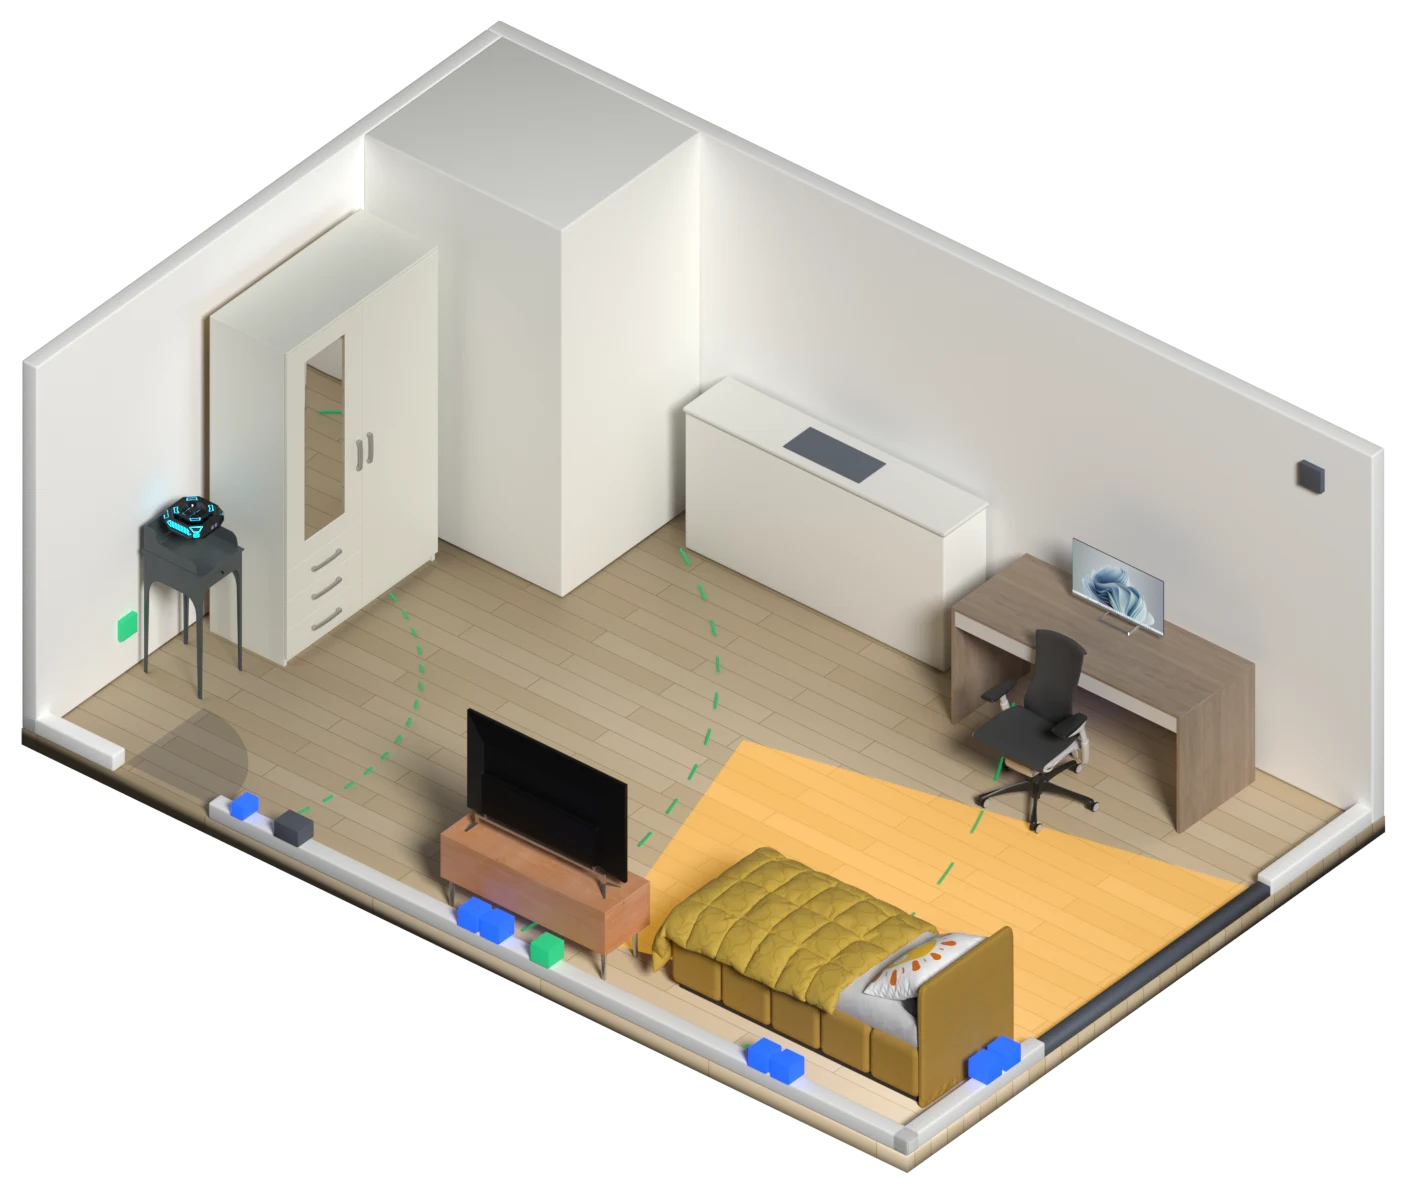
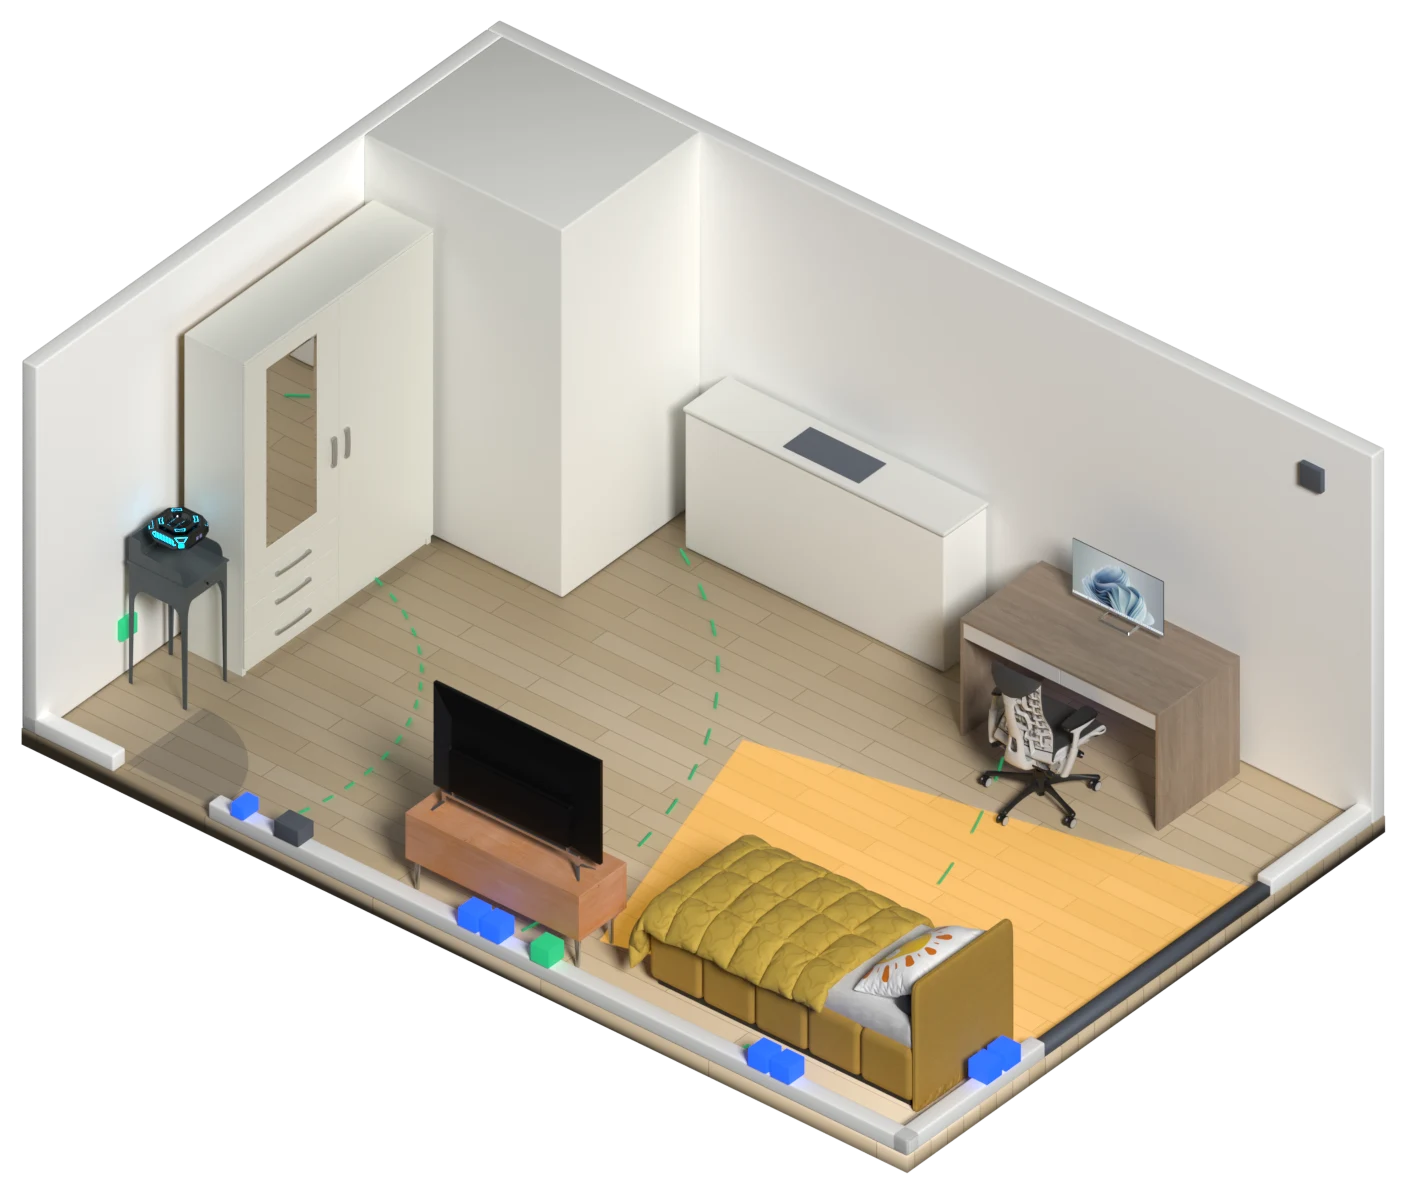
PLUGIN: 가구가 겹치지 않고 옮겨 가는 배치 전환, 유사 서비스 장 추가, 의자 방향 수정

diff --git a/plugin/index.html b/plugin/index.html
@@ -56,6 +56,12 @@ dd{font-size:clamp(15px,1.4vw,19px);font-weight:600;line-height:1.5;letter-spaci
 .card q{display:block;quotes:"“" "”";font-size:clamp(17px,1.75vw,25px);font-weight:700;line-height:1.5;letter-spacing:-.02em;margin-top:16px;text-wrap:pretty}
 .vs+.lead b,.lead.in{color:var(--ink)}
 .lead.in{margin-bottom:clamp(14px,2.6vh,24px)}
+.rows{padding-block:6px}
+.rows>div{display:grid;grid-template-columns:11.5em minmax(0,1fr) auto;gap:20px;align-items:center;padding:clamp(11px,2vh,18px) 0;border-top:1px solid var(--line)}
+.rows>div:first-child{border-top:0}
+.rows b{font-size:clamp(15px,1.3vw,18px);font-weight:700;letter-spacing:-.01em}
+.rows p{margin-top:0}
+.rows+.lead{margin-top:clamp(16px,3vh,28px)}
 /* 표지 */
 #s0{align-items:center;text-align:center;padding-bottom:0;overflow:hidden}
 #s0 .sub{font-size:clamp(17px,1.8vw,25px);font-weight:600;letter-spacing:-.02em;margin-top:14px}
@@ -64,7 +70,7 @@ dd{font-size:clamp(15px,1.4vw,19px);font-weight:600;line-height:1.5;letter-spaci
 #s0 .hero{margin-top:clamp(8px,2vh,20px)}
 #s0 .hero img{height:100%;width:100%;object-fit:contain}
 .r3{position:relative;aspect-ratio:1406/1194;width:min(100%,calc((100vh - 330px) * 1406 / 1194));margin-inline:auto}
-.r3 img{position:absolute;inset:0;width:100%;height:100%}
+.r3 img,.r3 canvas{position:absolute;inset:0;width:100%;height:100%}
 .r3 .L{opacity:0;transition:opacity .7s ease}.r3 .L.show{opacity:1}
 #s9 .bd{align-items:center;text-align:center}
 #s9 h2{font-size:clamp(32px,5.2vw,80px);line-height:1.18;margin-top:20px}
@@ -127,6 +133,7 @@ dd{font-size:clamp(15px,1.4vw,19px);font-weight:600;line-height:1.5;letter-spaci
   dl>div{grid-template-columns:5em minmax(0,1fr);padding:9px 0}
   .plan{width:100%;border-radius:14px}
   .layers li{grid-template-columns:12px 5.2em minmax(0,1fr);gap:9px;padding:9px 0;font-size:14px}.layers span{font-size:13px}
+  .rows>div{grid-template-columns:1fr;gap:6px;justify-items:start;padding:11px 0}
   .tabs{display:flex}.tabs button{flex:1;padding:8px 4px;font-size:12.5px}
   .why{min-height:0}
   #s9 .bd{justify-content:center}
@@ -174,8 +181,22 @@ dd{font-size:clamp(15px,1.4vw,19px);font-weight:600;line-height:1.5;letter-spaci
   </div>
 </section>
 
+<section class="sl" id="s2b">
+  <div><p class="chip">03 · 이미 있는 것</p><h2>방을 읽는 앱은 많다. <b class="k">콘센트로 배치하는</b> 앱은 찾지 못했다</h2></div>
+  <div class="bd">
+    <div class="card rows">
+      <div><b>IKEA Kreativ</b><p>사진 여러 장으로 방을 3D로 만들고, 있던 가구를 지운 뒤 IKEA 가구를 놓아 본다.</p><span class="chip g">치수 · 원근</span></div>
+      <div><b>오늘의집 3D 인테리어</b><p>도면을 등록하거나 우리 집을 검색해 가구를 놓고, AI 자동 배치로 초안을 받는다.</p><span class="chip g">도면 · 방 높이</span></div>
+      <div><b>Apple RoomPlan</b><p>아이폰 LiDAR로 방을 훑으면 벽·문·창과 주요 가구를 알아본다. 여러 스캔 앱이 이 기술을 쓴다.</p><span class="chip g">벽 · 문 · 창 · 가구</span></div>
+      <div><b>magicplan</b><p>시공·인테리어 전문가용. LiDAR로 벽·창·문과 콘센트를 가리켜 도면에 남긴다.</p><span class="chip">콘센트까지 · 기록용</span></div>
+    </div>
+    <p class="lead">콘센트를 읽는 기술도, 배치를 추천하는 서비스도 이미 있다. 둘을 이어 “거기서 쓸 수 있는가”로 배치하는 서비스는 찾아본 범위에서 나오지 않았다.</p>
+    <p class="note">2026년 10월, 각 서비스의 공개 소개 글과 도움말을 검색해 확인한 범위입니다.</p>
+  </div>
+</section>
+
 <section class="sl" id="s3" data-steps="4">
-  <div><p class="chip">03 · 속도면</p><h2>평면도에 없는 것을 읽는다</h2></div>
+  <div><p class="chip">04 · 속도면</p><h2>평면도에 없는 것을 읽는다</h2></div>
   <div class="bd"><div class="two">
     <div class="r3" id="planA" role="img" aria-label="빈 원룸 위에 콘센트, 랜선 단자, 설비, 햇빛, 와이파이 범위가 차례로 겹쳐진다"><img class="L show" data-from="0" src="assets/step0.webp" alt="" width="1406" height="1194"><img class="L" data-from="1" src="assets/step1.webp" alt="" width="1406" height="1194"><img class="L" data-from="2" src="assets/step2.webp" alt="" width="1406" height="1194"><img class="L" data-from="3" src="assets/step3.webp" alt="" width="1406" height="1194"><img class="L" data-from="4" src="assets/step4.webp" alt="" width="1406" height="1194"></div>
     <ol class="layers" id="layers">
@@ -189,9 +210,9 @@ dd{font-size:clamp(15px,1.4vw,19px);font-weight:600;line-height:1.5;letter-spaci
 </section>
 
 <section class="sl" id="s4" data-steps="2">
-  <div><p class="chip">04 · 꽂기</p><h2>같은 가구, 같은 방, 다른 결과</h2></div>
+  <div><p class="chip">05 · 꽂기</p><h2>같은 가구, 같은 방, 다른 결과</h2></div>
   <div class="bd"><div class="two">
-    <div class="r3" id="planB" role="img" aria-label="같은 방에 가구를 세 가지 방식으로 놓은 모습"><img class="lay" data-lay="0" src="assets/room0.webp" alt="" width="1406" height="1194"><img class="lay" data-lay="1" src="assets/room1.webp" alt="" width="1406" height="1194"><img class="lay" data-lay="2" src="assets/room2.webp" alt="" width="1406" height="1194"></div>
+    <div class="r3" id="planB" role="img" aria-label="같은 방에서 가구가 세 가지 배치로 옮겨 간다"><canvas id="cvB" width="1100" height="934"></canvas></div>
     <div>
       <div class="tabs" id="tabs"><button>A · 창가에 침대</button><button>B · 창가에 책상</button><button class="best">C · PLUGIN 추천</button></div>
       <div class="score"><div><b id="sc1">5/9</b><small>벽 콘센트로 해결</small></div><div><b id="sc2">2</b><small>필요한 멀티탭</small></div><div><b id="sc3">1</b><small>가려지는 단자</small></div></div>
@@ -202,7 +223,7 @@ dd{font-size:clamp(15px,1.4vw,19px);font-weight:600;line-height:1.5;letter-spaci
 </section>
 
 <section class="sl" id="s5" data-steps="4">
-  <div><p class="chip">05 · 쓰는 순서</p><h2>집 보러 간 날 찍고, 이삿날 그대로 놓는다</h2></div>
+  <div><p class="chip">06 · 쓰는 순서</p><h2>집 보러 간 날 찍고, 이삿날 그대로 놓는다</h2></div>
   <div class="bd"><div class="flow" id="flow">
     <div class="card show"><p class="chip">01</p><h3>찍기</h3><p>빈집을 휴대폰으로 한 바퀴 찍는다. 계약 전이어도 된다.</p></div>
     <div class="card"><p class="chip">02</p><h3>읽기</h3><p>AI가 영상에서 콘센트, 단자, 설비, 햇빛을 읽어 속도면을 만든다.</p></div>
@@ -213,7 +234,7 @@ dd{font-size:clamp(15px,1.4vw,19px);font-weight:600;line-height:1.5;letter-spaci
 </section>
 
 <section class="sl" id="s6">
-  <div><p class="chip">06 · 사용 장면</p><h2>자취 3년 차 민지의 집 구하기</h2></div>
+  <div><p class="chip">07 · 사용 장면</p><h2>자취 3년 차 민지의 집 구하기</h2></div>
   <div class="bd">
     <p class="lead in">민지는 집을 보러 간 날 방을 한 바퀴 찍는다. 그날 저녁 알림이 온다.</p>
     <div class="vs">
@@ -225,7 +246,7 @@ dd{font-size:clamp(15px,1.4vw,19px);font-weight:600;line-height:1.5;letter-spaci
 </section>
 
 <section class="sl" id="s7">
-  <div><p class="chip">07 · 세 가지 조건</p><h2>원하는가, 만들 수 있는가, 돈이 도는가</h2></div>
+  <div><p class="chip">08 · 세 가지 조건</p><h2>원하는가, 만들 수 있는가, 돈이 도는가</h2></div>
   <div class="bd"><div class="cards">
     <div class="card"><p class="chip">공감</p><h3>집을 고칠 수 없는 사람들</h3><ul><li>1~2년마다 이사하는 전월세 1인 가구는 집에 맞춰 놓는 수밖에 없다.</li><li>“콘센트 위치 때문에 배치를 어떻게 해야 하느냐”는 글이 인테리어 커뮤니티에 올라와 있다.</li><li class="todo">몇 명이 겪는지는 설문으로 확인해야 한다.</li></ul></div>
     <div class="card"><p class="chip">기술</p><h3>보이는 것부터 읽는다</h3><ul><li>지금: 영상에서 벽·문·창을 알아내 배치를 짜는 것, 사진에서 콘센트와 단자를 알아보는 것.</li><li>3~5년 안: 벽 속 배선과 차단기 용량 추정, 한 번의 촬영으로 햇빛과 전파까지 계산.</li></ul></div>
@@ -234,11 +255,11 @@ dd{font-size:clamp(15px,1.4vw,19px);font-weight:600;line-height:1.5;letter-spaci
 </section>
 
 <section class="sl" id="s8">
-  <div><p class="chip">08 · 한계와 확인할 것</p><h2>아직 답하지 못한 것</h2></div>
+  <div><p class="chip">09 · 한계와 확인할 것</p><h2>아직 답하지 못한 것</h2></div>
   <div class="bd"><div class="cards">
     <div class="card"><p class="chip g">01</p><h3>살고 있는 집은 못 읽는다</h3><p>가구 뒤에 이미 가려진 콘센트는 찍히지 않는다. 빈집일 때 찍어야 한다.</p></div>
     <div class="card"><p class="chip g">02</p><h3>남의 집을 찍는 일이다</h3><p>계약 전에 찍으려면 집주인 동의가 필요하다.</p></div>
-    <div class="card"><p class="chip g">03</p><h3>비슷한 기능이 있는지</h3><p>찾아본 범위에서는 나오지 않았다. 국내외 서비스를 더 확인해야 한다.</p></div>
+    <div class="card"><p class="chip g">03</p><h3>비슷한 기능이 있는지</h3><p>콘센트를 읽는 기술은 이미 있다. 배치에 쓰는 서비스는 찾아본 범위에서 나오지 않았고, 더 확인해야 한다.</p></div>
   </div></div>
 </section>
 
@@ -283,6 +304,15 @@ dd{font-size:clamp(15px,1.4vw,19px);font-weight:600;line-height:1.5;letter-spaci
   ];
   var pA = document.getElementById('planA'), pB = document.getElementById('planB');
 
+  // ── 꽂기 장: 가구가 직접 옮겨 가는 연속 장면(0 = A, 20 = B, 40 = C) ──
+  var cvB = document.getElementById('cvB'), gB = cvB.getContext('2d'), FR = [], fc = 0, ft = 0, raf = 0;
+  function drawSeq(){ var a = Math.floor(fc), b = Math.min(40, a + 1), t = fc - a; gB.clearRect(0, 0, cvB.width, cvB.height);
+    if (FR[a].complete && FR[a].naturalWidth) gB.drawImage(FR[a], 0, 0, cvB.width, cvB.height);
+    if (t > .02 && FR[b].complete && FR[b].naturalWidth){ gB.globalAlpha = t; gB.drawImage(FR[b], 0, 0, cvB.width, cvB.height); gB.globalAlpha = 1; } }
+  for (var fi = 0; fi <= 40; fi++){ FR[fi] = new Image(); FR[fi].onload = (function(i){ return function(){ if (Math.floor(fc) === i) drawSeq(); }; })(fi); FR[fi].src = 'assets/seq/' + ('0' + fi).slice(-2) + '.webp'; }
+  function seqGo(to){ ft = to; if (raf) return; var last = performance.now();
+    (function tick(n){ var dt = Math.max(0, Math.min(50, n - last)); last = n; var d = ft - fc, v = dt * 20 / 3000 * (Math.abs(d) > 20 ? 1.5 : 1);
+      if (Math.abs(d) <= v || !v && !d){ fc = ft; drawSeq(); raf = 0; return; } fc += d > 0 ? v : -v; drawSeq(); raf = requestAnimationFrame(tick); })(last); }
   // ── 넘기기 ──
   var S = [].slice.call(document.querySelectorAll('.sl')), cur = 0, st = S.map(function(){ return 0; });
   var nav = document.getElementById('nav'), pg = document.getElementById('pg');
@@ -294,7 +324,7 @@ dd{font-size:clamp(15px,1.4vw,19px);font-weight:600;line-height:1.5;letter-spaci
     pg.textContent = ('0' + (cur + 1)).slice(-2) + ' / ' + ('0' + S.length).slice(-2);
     var k = st[cur], id = S[cur].id;
     if (id === 's3'){ [].forEach.call(pA.querySelectorAll('.L'), function(g){ g.classList.toggle('show', k >= +g.dataset.from); }); [].forEach.call(document.querySelectorAll('#layers li'), function(li, i){ li.classList.toggle('show', i <= k); }); }
-    if (id === 's4'){ [].forEach.call(pB.querySelectorAll('.lay'), function(g){ g.classList.toggle('show', +g.dataset.lay === k); }); [].forEach.call(document.querySelectorAll('#tabs button'), function(b, i){ b.classList.toggle('on', i === k); });
+    if (id === 's4'){ seqGo(k * 20); [].forEach.call(pB.querySelectorAll('.lay'), function(g){ g.classList.toggle('show', +g.dataset.lay === k); }); [].forEach.call(document.querySelectorAll('#tabs button'), function(b, i){ b.classList.toggle('on', i === k); });
       var l = LAY[k]; ['sc1', 'sc2', 'sc3'].forEach(function(n, i){ var el = document.getElementById(n); el.textContent = l.sc[i]; el.style.color = k === 2 ? 'var(--ok)' : i ? 'var(--warn)' : 'var(--ink)'; document.getElementById('tabs').dataset.k = k; });
       document.getElementById('why').innerHTML = l.why.map(function(w){ return '<li class="' + w[0] + '">' + w[1] + '</li>'; }).join(''); }
     if (id === 's5') [].forEach.call(document.querySelectorAll('#flow > div'), function(d, i){ d.classList.toggle('show', i <= k); });
